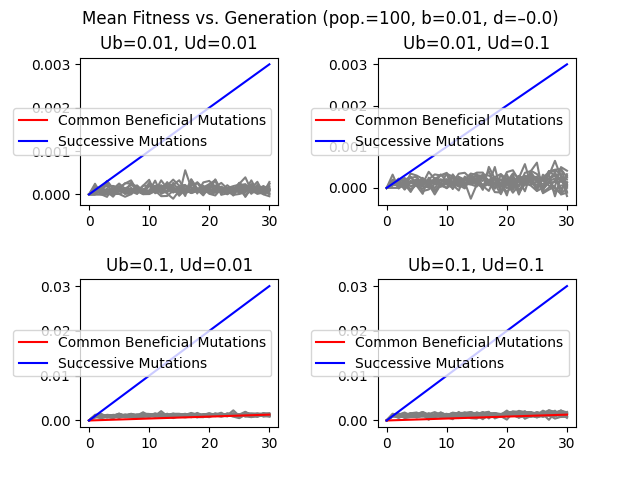
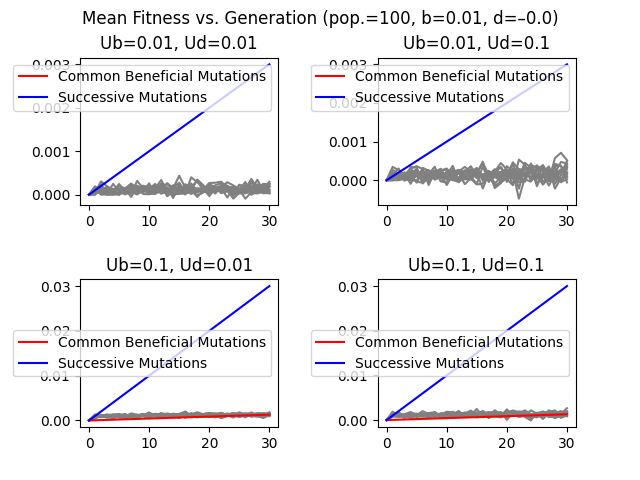
committing for safety

diff --git a/simple-fitness-tracking.py b/simple-fitness-tracking.py
@@ -74,10 +74,11 @@ def simulate(population, generations, starting_fitness, b, d, Ubs, Uds, runs, pl
 
             x = np.linspace(0, generations, 1000)
             y1 = [population * Ub * b**2 * i for i in x]
-            y2 = [(b**2 * ((2 * np.log(population * b) - np.log(b / Ub)) / (np.log(b / Ub))**2)) * i for i in x]
+            y2 = [(b**2 * ((2 * np.log(population * b) - (np.log(b) - np.log(Ub))) / (np.log(b) - np.log(Ub)))) * i for i in x]
             axs[i][j].plot(x, y2, label='Common Beneficial Mutations', color='red')
-            axs[i][j].plot(x, y1, label='Successive Mutations', color='blue')
-            axs[i][j].legend()
+            # axs[i][j].plot(x, y1, label='Successive Mutations', color='blue')
+            if i == 0 and j == 0:
+                axs[i][j].legend()
 
 
 
@@ -89,15 +90,15 @@ if __name__=='__main__':
 
     start_time = time.time()
 
-    population = 100
-    generations = 30
+    population = 10 ** 5
+    generations = 150
     starting_fitness = 0.5
     b = 0.01
     d = -0.0 # make d = 0 when comparing against desai/fisher eqns for mean fitness growth
-    Ubs = [round(i * 1000)/1000 for i in np.linspace(10**-2, 10**-1, 2)]
+    Ubs = [round(i * 1000)/1000 for i in np.linspace(10**-4, 0.3, 2)]
     Uds = [round(i*100)/100 for i in np.linspace(10**-2, 10**-1, 2)]
 
-    runs = 15
+    runs = 5
     with alive_progress.alive_bar(runs * len(Ubs) * len(Uds) * generations, bar='notes') as bar:
         for i in simulate(population, generations, starting_fitness, b, d, Ubs, Uds, runs, plot=True):
             # print(i)
